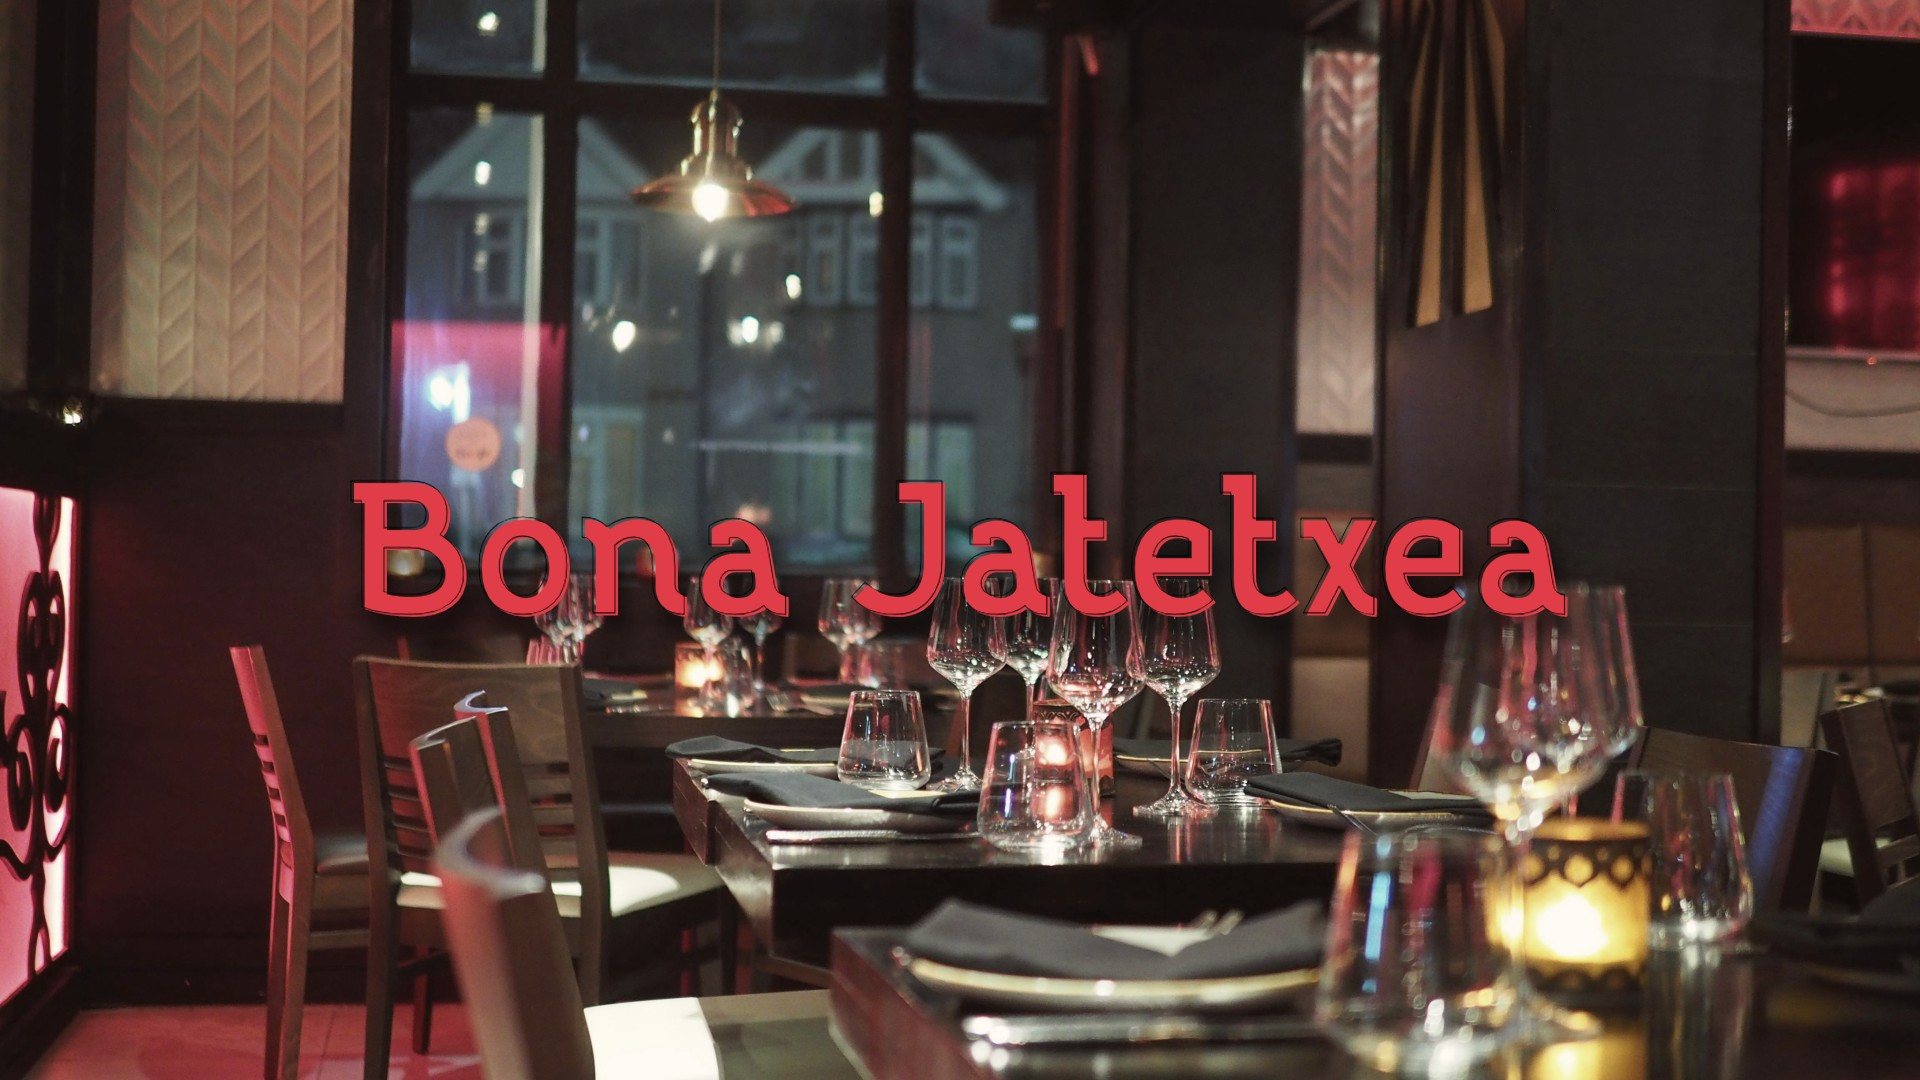
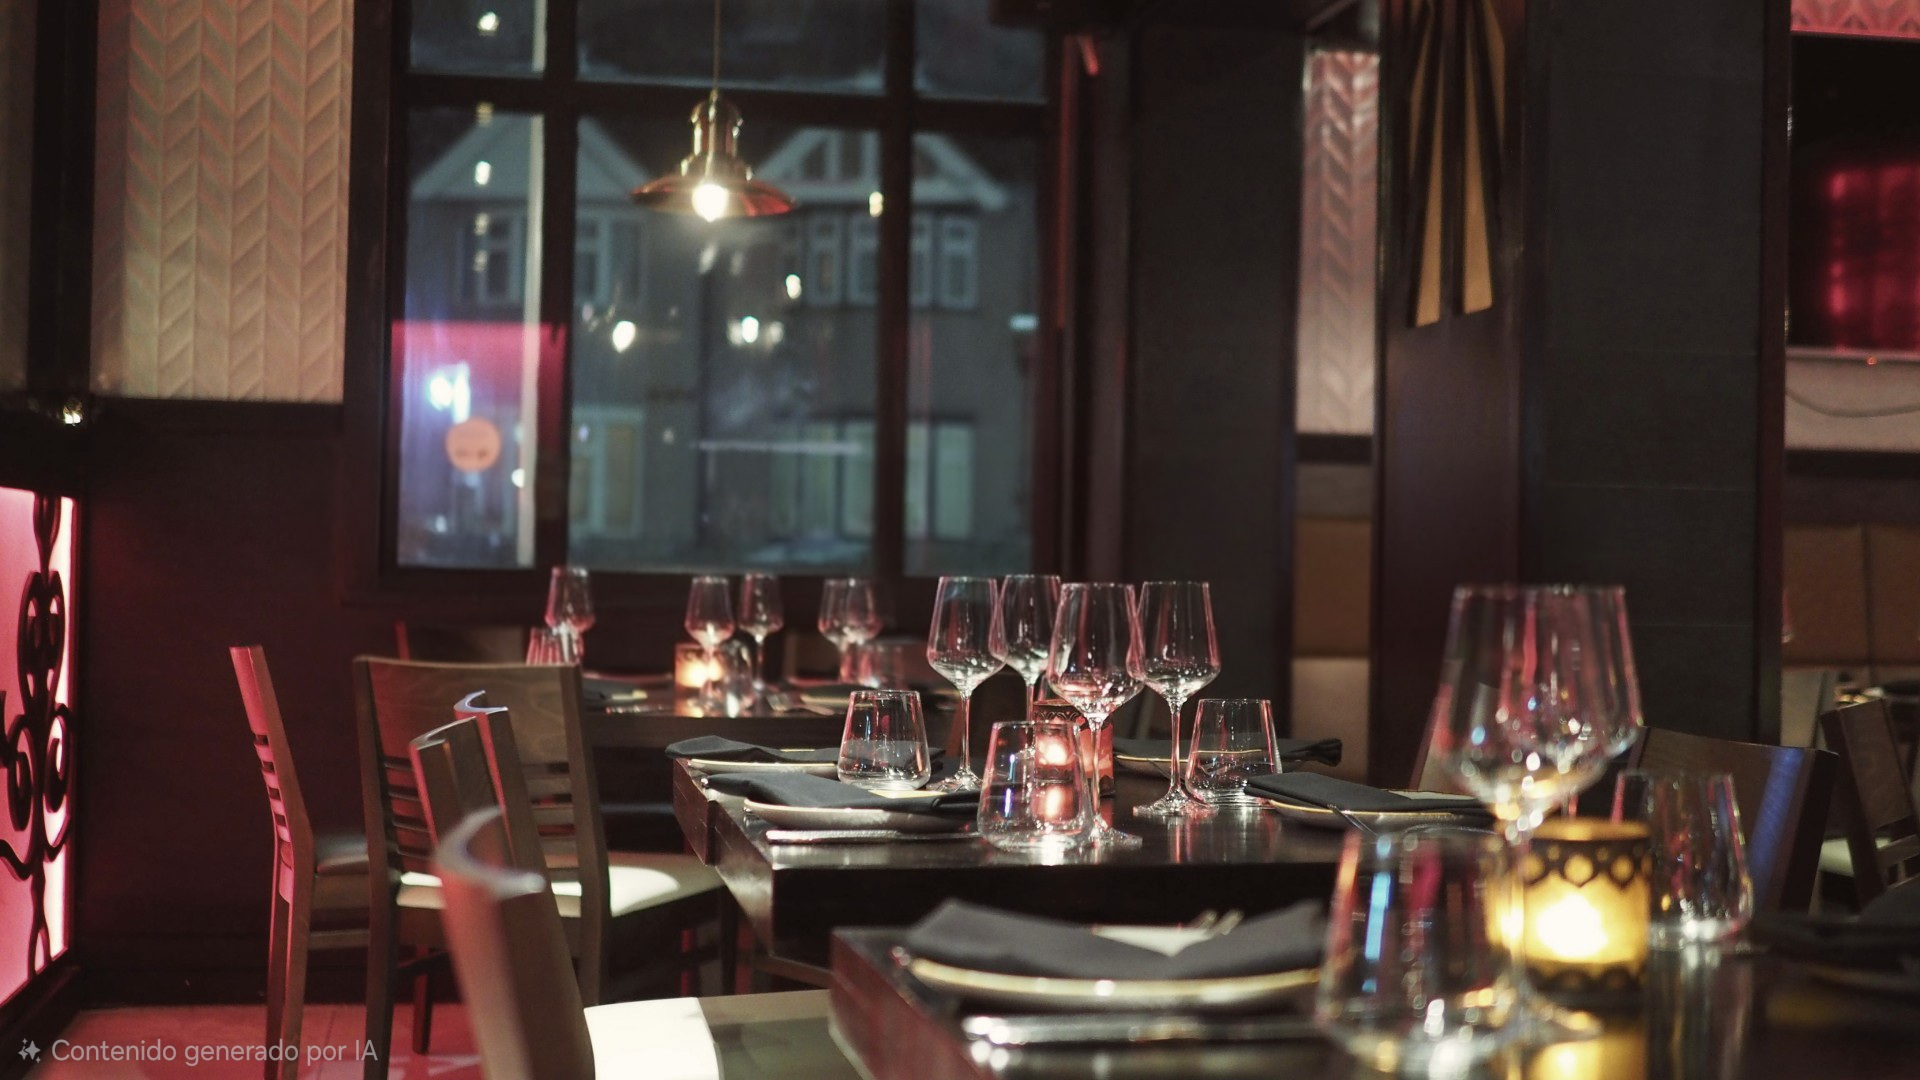
image and logut

Changed region(s): [[0.1875, 0.4278, 0.8438, 0.6111], [0.0, 0.9472, 0.1875, 1.0]]

diff --git a/bona-web/resources/js/legacy/components/Header/header.jsx b/bona-web/resources/js/legacy/components/Header/header.jsx
@@ -205,7 +205,7 @@ const Header = () => {
                                         <Dropdown.Item onClick={handleLogout}>
                                             <span className="d-flex align-items-center">
                                                 <BoxArrowRight className="me-2" size={16} />
-                                                {t('nav.logout') || 'Logout'}
+                                                {'Logout'}
                                             </span>
                                         </Dropdown.Item>
                                     </>
